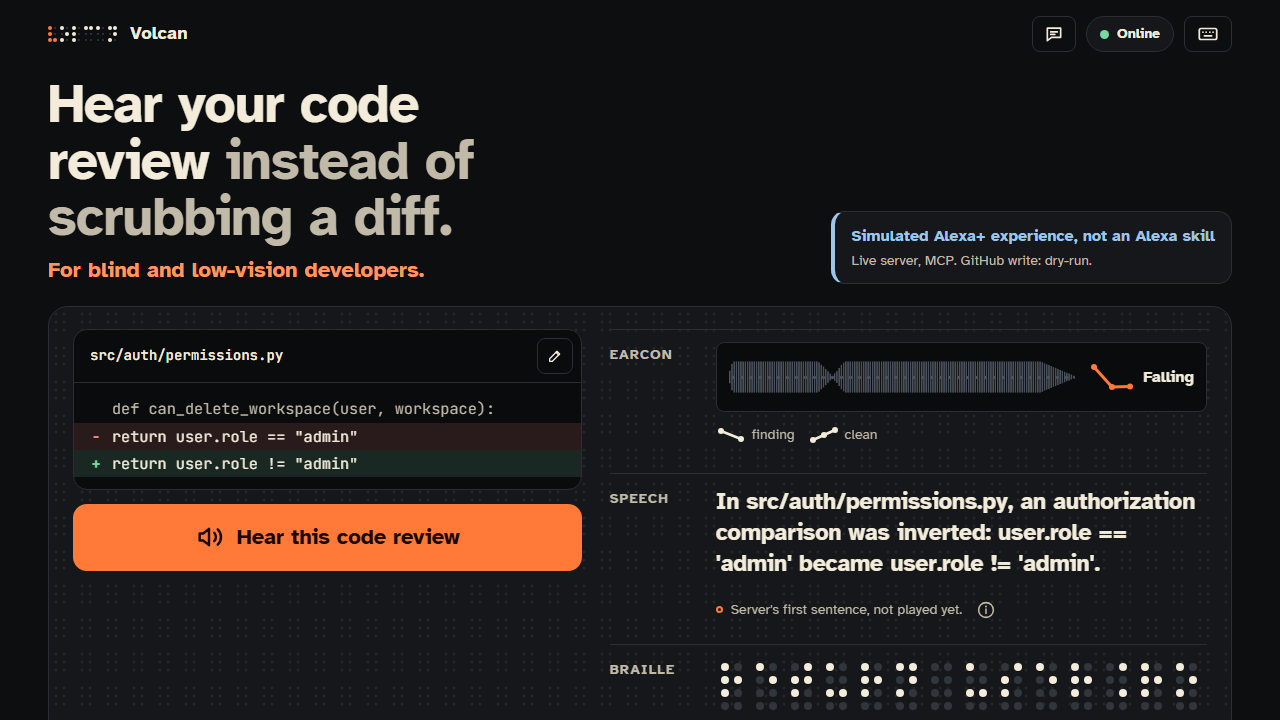
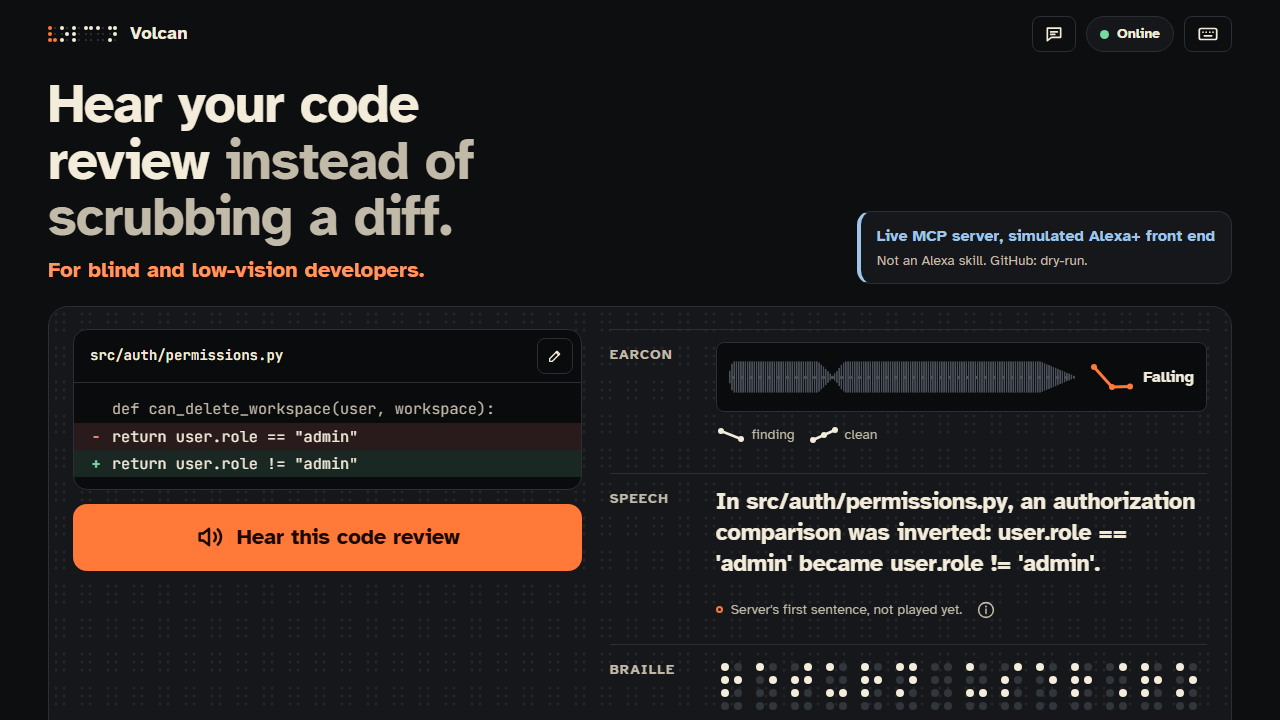
feat(page): replay Amazon's documented Alexa+ requests from the Evidence tab
The Server and MCP tab gains a button that sends Amazon's documented
Alexa+ initialize and tools/call bodies to this origin's /mcp as three
clients: one that follows the version rules, one that declares the
revision it asked for, and one that never sends MCP-Protocol-Version.
Each line prints the header sent, the HTTP status of every step, the tool
count and the call's round trip, all read from the responses and
performance.now(). It runs only on a press and only against this origin.

The first-screen card now names the FAQ's submission shape positively,
"Live MCP server, simulated Alexa+ front end" with "Not an Alexa skill.
GitHub: dry-run.", at the same word count. The Road to Alexa+ card and
the handshake paragraph are shorter, so the page height stays near where
it was with the new panel. The README screenshot is recaptured by the
harness in the dark theme at 1280x720.

Changed region(s): [[0.625, 0.3056, 0.9688, 0.3972]]

diff --git a/docs/index.html b/docs/index.html
@@ -710,6 +710,10 @@
     .rail-card h3 { display: flex; align-items: baseline; gap: 10px; margin: 0 0 12px; font-size: var(--t-md); }
     .rail-card h3 .n { font-family: var(--mono); color: var(--ink-faint); font-size: var(--t-sm); }
     .row-actions { display: flex; flex-wrap: wrap; gap: 8px; margin: 10px 0 0; }
+    .replay-list { list-style: none; padding: 0; margin: 14px 0 0; display: grid; gap: 10px; font-size: var(--t-sm); }
+    .replay-list li { border-left: 3px solid var(--line-strong); padding: 2px 0 2px 12px; overflow-wrap: anywhere; }
+    .replay-list b { display: block; color: var(--ink); }
+    .replay-list span { color: var(--ink-soft); }
     .rail-card input { margin: 0; }
     details.token { margin: 14px 0 0; }
     details.token summary { cursor: pointer; font-size: var(--t-xs); font-weight: 700; color: var(--ink-soft); }
@@ -958,8 +962,8 @@
           <p class="audience">For blind and low-vision developers.</p>
         </div>
         <p class="boundary" id="notASkill">
-          <span class="sim">Simulated Alexa+ experience, not an Alexa skill</span>
-          <span>Live server, MCP. GitHub write: <span id="writeMode">dry-run.</span></span>
+          <span class="sim">Live MCP server, simulated Alexa+ front end</span>
+          <span>Not an Alexa skill. GitHub: <span id="writeMode">dry-run.</span></span>
         </p>
       </div>
     </header>
@@ -1139,17 +1143,12 @@
           </div>
           <div class="who-card">
             <h3>Road to Alexa+ <span class="tag-notbuilt">local only</span></h3>
-            <p>Amazon's route for a server like this is an MCP add-on: Alexa+ calls the
-              same MCP server the Evidence tab handshakes. The add-on package exists, built
-              and tested locally, not certified or deployed: the
+            <p>Alexa+ would call this same MCP server through an add-on. The
               <a href="https://amazonappdev2026.devpost.com/details/faqs">hackathon FAQ</a> says the add-on tools are
-              "available to select partners only", and asks instead for a self-hosted MCP
-              server demoed via "your own web-based simulator or front end", which is this
-              page. A replay, against a local build of this code, of the requests Amazon
-              documents for its Alexa+ client gets the finding back, unless the client never
-              sends the protocol version header. Alexa+ has never called
-              Volcan: no Alexa skill, no certification and no test on an Echo device. This
-              page is the stand-in, and says so at the top.</p>
+              "available to select partners only" and asks for a self-hosted MCP server with
+              its own front end: this page. The package is built and tested locally, not
+              certified or deployed. Alexa+ has never called Volcan:
+              no Alexa skill and no test on an Echo device.</p>
           </div>
         </div>
       </section>
@@ -1339,13 +1338,11 @@
           <section class="block" id="mcp" aria-labelledby="mcp-heading">
             <h2 id="mcp-heading">Model Context Protocol, handshaken in your browser</h2>
             <p>
-              Volcan's MCP server is written by hand against revision 2025-11-25 over the
-              Streamable HTTP transport, with no MCP SDK. This button performs a real
-              <code>initialize</code>, a real <code>notifications/initialized</code> and a real
-              <code>tools/list</code> against <code>POST /mcp</code>, then prints what came
-              back: whether the endpoint chose a stateful identifier or stateless mode, and the
-              JSON Schema of every tool exactly as the server published it. The public Lambda is
-              transport-stateless, so request-contained calls need no process-specific MCP id.
+              Written by hand against revision 2025-11-25 over Streamable HTTP, with no MCP
+              SDK. This button sends a real <code>initialize</code>,
+              <code>notifications/initialized</code> and <code>tools/list</code> to
+              <code>POST /mcp</code> and prints what came back: stateful or stateless
+              transport, and every tool's JSON Schema as published.
               <span id="stateDurability">Where this server keeps dialogue and pending approvals is
               read from <code>GET /health</code>, and stated here once it answers.</span> Check it independently with
               <code class="origin-mcp">python scripts/mcp_conformance.py http://127.0.0.1:8000/mcp</code>.
@@ -1379,6 +1376,23 @@
 
             <div id="mcpPane">
               <p class="empty-state-card boxed">The tool catalog appears here after the handshake. Each entry expands to the exact <code>inputSchema</code> the server published, generated from the model that parses that tool's arguments.</p>
+            </div>
+          </section>
+
+          <section class="block" id="alexaReplay" aria-labelledby="replay-heading">
+            <h2 id="replay-heading">Amazon's documented Alexa+ requests, replayed from your browser</h2>
+            <p>
+              Amazon documents its Alexa+ client's request bodies, not its headers. This button
+              sends them to <code>POST /mcp</code> as three clients: one follows the version
+              rules, one declares the revision it asked for, one never sends
+              <code>MCP-Protocol-Version</code>. Alexa+ did not send them.
+            </p>
+            <div class="row-actions">
+              <button type="button" id="runReplay" title="Send Amazon's documented initialize and tools/call bodies to POST /mcp as three kinds of client">Replay the documented Alexa+ requests</button>
+            </div>
+            <p class="visually-hidden" id="replayStatus" role="status" aria-live="polite"></p>
+            <div id="replayPane">
+              <p class="empty-state-card boxed">One line per client appears here after the replay: the header it sent, the HTTP status of each step, and the tool call's round trip as this browser timed it.</p>
             </div>
           </section>
         </div>
@@ -2938,6 +2952,133 @@
       State.mcpSession = null;
     }
 
+    /* --- documented Alexa+ requests, replayed -------------------------------
+       The bodies are the ones in tests/fixtures/alexa_plus_envelopes.py, copied
+       from Amazon's lifecycle page, with its example tool swapped for the
+       digest. Every figure printed comes from a response to a request sent
+       here; nothing is prewritten. */
+
+    var REPLAY_FINDING = "an authorization comparison was inverted";
+    var REPLAY_PATCH = "diff --git a/p.py b/p.py\n--- a/p.py\n+++ b/p.py\n@@ -1 +1 @@\n"
+      + "-    return user.role == \"admin\"\n"
+      + "+    return user.role != \"admin\"\n";
+    var REPLAY_SHAPES = [
+      ["spec", "Follows the version rules"],
+      ["own", "Declares the revision it asked for"],
+      ["never", "Never sends MCP-Protocol-Version"]
+    ];
+
+    async function replayPost(message, headers) {
+      var started = performance.now();
+      var response = await fetch(State.apiBase + "/mcp", {
+        method: "POST",
+        headers: Object.assign({ "Content-Type": "application/json" }, headers),
+        body: JSON.stringify(message)
+      });
+      var body = null;
+      try { body = await response.json(); } catch (parseError) { body = null; }
+      return { status: response.status, body: body, ms: performance.now() - started,
+        sessionId: response.headers.get("Mcp-Session-Id") };
+    }
+
+    function replayError(step) {
+      var error = step.body && step.body.error;
+      if (!error) { return ""; }
+      return typeof error === "string" ? (step.body.detail || error) : (error.message || String(error.code));
+    }
+
+    async function replayShape(shape) {
+      var init = await replayPost({
+        jsonrpc: "2.0", method: "initialize", id: "4e3bdaee-0",
+        params: { protocolVersion: "2025-03-26", capabilities: { roots: { listChanged: true } },
+          clientInfo: { name: "Alexa+ MCP Client", version: "1.0.0" } }
+      }, {});
+      var negotiated = init.body && init.body.result ? init.body.result.protocolVersion : null;
+      var headers = {};
+      if (init.sessionId) { headers["Mcp-Session-Id"] = init.sessionId; }
+      if (shape === "spec" && (negotiated === "2025-06-18" || negotiated === "2025-11-25")) {
+        headers["MCP-Protocol-Version"] = negotiated;
+      } else if (shape === "own") {
+        headers["MCP-Protocol-Version"] = "2025-03-26";
+      }
+      var noted = await replayPost({ jsonrpc: "2.0", method: "notifications/initialized" }, headers);
+      var listed = await replayPost({ jsonrpc: "2.0", method: "tools/list", id: "4e3bdaee-list", params: {} }, headers);
+      var called = await replayPost({
+        jsonrpc: "2.0", method: "tools/call", id: "4a5bda6e-1",
+        params: { name: "digest_semantic_diff", arguments: { raw_diff: REPLAY_PATCH, level: 0 } }
+      }, headers);
+      if (init.sessionId) {
+        await fetch(State.apiBase + "/mcp", { method: "DELETE",
+          headers: { "Mcp-Session-Id": init.sessionId, "MCP-Protocol-Version": negotiated || PROTOCOL_VERSION } });
+      }
+      var tools = listed.body && listed.body.result && listed.body.result.tools;
+      var result = called.body && called.body.result;
+      var text = "";
+      if (result && result.content) {
+        result.content.some(function (block) {
+          if (block.type === "text") { text = block.text || ""; return true; }
+          return false;
+        });
+      }
+      var served = init.status === 200 && noted.status === 202 && listed.status === 200 && !!tools
+        && called.status === 200 && !!result && !result.isError;
+      return {
+        served: served,
+        header: headers["MCP-Protocol-Version"] || "none",
+        negotiated: negotiated,
+        statuses: [init.status, noted.status, listed.status, called.status],
+        tools: tools ? tools.length : null,
+        callMs: called.ms,
+        findingFirst: text.split(". ")[0].toLowerCase().indexOf(REPLAY_FINDING) !== -1,
+        refusal: served ? "" : (replayError(called) || replayError(listed) || replayError(noted) || replayError(init))
+      };
+    }
+
+    async function runAlexaReplay() {
+      var button = $("runReplay");
+      setBusy(button, true, "Replaying");
+      announce("replayStatus", "Sending Amazon's documented Alexa+ requests as three kinds of client.");
+      if (!State.live) { await probeHealth(); }
+      if (!State.live) {
+        setBusy(button, false);
+        clear($("replayPane")).appendChild(offlineCard(
+          "The replay needs a live MCP endpoint at POST /mcp on this origin."));
+        announce("replayStatus", "No server answered, so nothing was replayed.");
+        return;
+      }
+      try {
+        var list = el("ul", "replay-list");
+        var servedCount = 0;
+        for (var i = 0; i < REPLAY_SHAPES.length; i += 1) {
+          var run = await replayShape(REPLAY_SHAPES[i][0]);
+          if (run.served) { servedCount += 1; }
+          var item = document.createElement("li");
+          item.appendChild(el("b", null, REPLAY_SHAPES[i][1] + ": " + (run.served ? "served" : "refused")));
+          item.appendChild(el("span", null,
+            "Asked for 2025-03-26, answered " + (run.negotiated || "nothing") + ". Header sent: "
+            + run.header + ". HTTP " + run.statuses.join(", ") + " for initialize, initialized, "
+            + "tools/list and tools/call. "
+            + (run.served
+              ? plural(run.tools, "tool") + " listed; the call took " + run.callMs.toFixed(1)
+                + " ms in this browser; finding named in the first sentence: "
+                + (run.findingFirst ? "yes." : "no.")
+              : "The server's reason: " + (run.refusal || "none in the response body") + ".")));
+          list.appendChild(item);
+        }
+        var pane = clear($("replayPane"));
+        pane.appendChild(list);
+        pane.appendChild(el("p", "caption", servedCount + " of " + REPLAY_SHAPES.length
+          + " clients served."));
+        announce("replayStatus", "Replay finished. " + servedCount + " of "
+          + REPLAY_SHAPES.length + " clients served.");
+      } catch (error) {
+        clear($("replayPane")).appendChild(failureCard("The replay failed. " + error.message));
+        announce("replayStatus", "The replay failed. " + error.message);
+      } finally {
+        setBusy(button, false);
+      }
+    }
+
     /* --- governed actions ------------------------------------------------ */
 
     function setLease(state, label) {
@@ -3537,6 +3678,7 @@
     $("copyBraille").addEventListener("click", copyBraille);
     $("runMcp").addEventListener("click", runMcpHandshake);
     $("endMcp").addEventListener("click", endMcpSession);
+    $("runReplay").addEventListener("click", runAlexaReplay);
     $("stageBtn").addEventListener("click", stageAction);
     $("approveBtn").addEventListener("click", approveAction);
     $("rejectBtn").addEventListener("click", rejectAction);

diff --git a/tests/e2e/test_html_structure.py b/tests/e2e/test_html_structure.py
@@ -918,3 +918,24 @@ def test_the_finding_box_stacks_and_does_not_repeat_the_spoken_sentence():
     body = function_body("renderFindings")
     assert "The sentence above names it." in body
     assert "renderFindings(digest.data.critical_findings, digest.data.voice_summary)" in script_body()
+
+
+def test_the_alexa_replay_panel_runs_on_press_against_this_origin_and_prints_only_responses():
+    """Added 2026-09-27 with the version-header fix: the Evidence tab replays
+    Amazon's documented Alexa+ bodies as three clients, one of which never
+    sends MCP-Protocol-Version. It must run only when pressed, only against
+    this origin, send no version header for that client, and print figures
+    read from the responses and the browser's own clock."""
+    html = read_html()
+    panel = html.split('id="alexaReplay"', 1)[1].split("</section>", 1)[0]
+    assert 'id="runReplay"' in panel and 'role="status"' in panel
+    assert "Alexa+ did not send them" in panel
+    script = script_body()
+    assert '$("runReplay").addEventListener("click", runAlexaReplay);' in script
+    assert script.count("runAlexaReplay") == 2, "bound to the button and called nowhere else"
+    shape = script.split("async function replayShape", 1)[1].split("\n    }\n", 1)[0]
+    assert 'State.apiBase + "/mcp"' in script.split("async function replayPost", 1)[1].split("\n    }\n", 1)[0]
+    assert 'shape === "own"' in shape and 'shape === "spec"' in shape
+    assert 'shape === "never"' not in shape, "the header-less client is the one no branch adds a header for"
+    assert "performance.now()" in script.split("async function replayPost", 1)[1].split("\n    }\n", 1)[0]
+    assert 'protocolVersion: "2025-03-26"' in shape, "the documented initialize asks for 2025-03-26"

diff --git a/README.md b/README.md
@@ -2,7 +2,7 @@
 
 > **Volcan lets blind and low-vision software developers review autonomous coding agents by ear and by touch instead of by reading a diff.**
 
-![Volcan's first screen at 1280 by 720 in the dark theme, before any press: the headline "Hear your code review instead of scrubbing a diff", the line "For blind and low-vision developers.", a card reading "Simulated Alexa+ experience, not an Alexa skill" and "Live server, MCP. GitHub write: dry-run.", a two-line patch that turns user.role == "admin" into user.role != "admin", one "Hear this code review" button, and the server's real answer drawn silently beside it: a falling earcon waveform, the sentence "an authorization comparison was inverted", and eight-dot Braille cells.](docs/assets/volcan-first-viewport.png)
+![Volcan's first screen at 1280 by 720 in the dark theme, before any press: the headline "Hear your code review instead of scrubbing a diff", the line "For blind and low-vision developers.", a card reading "Live MCP server, simulated Alexa+ front end" and "Not an Alexa skill. GitHub: dry-run.", a two-line patch that turns user.role == "admin" into user.role != "admin", one "Hear this code review" button, and the server's real answer drawn silently beside it: a falling earcon waveform, the sentence "an authorization comparison was inverted", and eight-dot Braille cells.](docs/assets/volcan-first-viewport.png)
 
 [![License: MIT](https://img.shields.io/badge/License-MIT-yellow.svg)](https://opensource.org/licenses/MIT)
 [![MCP](https://img.shields.io/badge/MCP-2025--11--25-blue.svg)](https://modelcontextprotocol.io)
@@ -166,7 +166,7 @@ its URL and type `open`; the full command list is in
 | Digest by Claude on Amazon Bedrock | Real code with a stated fallback. A provider failure returns a fixed public category; raw account, role and request identifiers never enter the anonymous response. No Bedrock answer has been recorded: locally the SDK was absent, and the public build's call is refused as not authorized | `python -m pytest tests/unit/test_bedrock_synthesis_path.py -v` |
 | Voice loop | Simulated: the browser's speech, not an Alexa skill, and no test drives a microphone | [Evidence](docs/EVIDENCE.md#what-is-true-and-what-is-simulated) |
 | Shared durable state | In the code and the Terraform, not deployed; a local run keeps state in memory | The `durable_state` field of `GET /health` says which |
-| Alexa+ MCP add-on package | Built and tested locally, not certified or deployed: the hackathon FAQ says the add-on tools are "available to select partners only", so participants cannot deploy it. A replay of Amazon's documented Alexa+ client requests, against a local build of this commit and not the registered endpoint (which runs an older build), gets the finding back from all three client shapes: one that follows the protocol's version rules, one that declares the revision it asked for, and one that never sends the version header. Alexa+ has never called it; no Echo test | `python scripts/validate_alexa_addon.py`, then `python scripts/replay_alexa_plus_envelopes.py http://127.0.0.1:8000/mcp`; [Road to Alexa+](docs/EVIDENCE.md#road-to-alexa) |
+| Alexa+ MCP add-on package | Built and tested locally, not certified or deployed: the hackathon FAQ says the add-on tools are "available to select partners only", so participants cannot deploy it. A replay of Amazon's documented Alexa+ client requests, against a local build of this commit and not the registered endpoint (which runs an older build), gets the finding back from all three client shapes: one that follows the protocol's version rules, one that declares the revision it asked for, and one that never sends the version header. The page's Evidence tab, Server and MCP, runs the same three clients from the browser on a press. Alexa+ has never called it; no Echo test | `python scripts/validate_alexa_addon.py`, then `python scripts/replay_alexa_plus_envelopes.py http://127.0.0.1:8000/mcp`; [Road to Alexa+](docs/EVIDENCE.md#road-to-alexa) |
 | Demo video | Rendered locally from a run of `de30b11`, pending upload; no public link yet | [video/README.md](video/README.md) |
 | Test suite | 631 passing, 92.11% statement coverage, 2026-09-27 | `python -m pytest tests/ -q --cov=src` |
 
